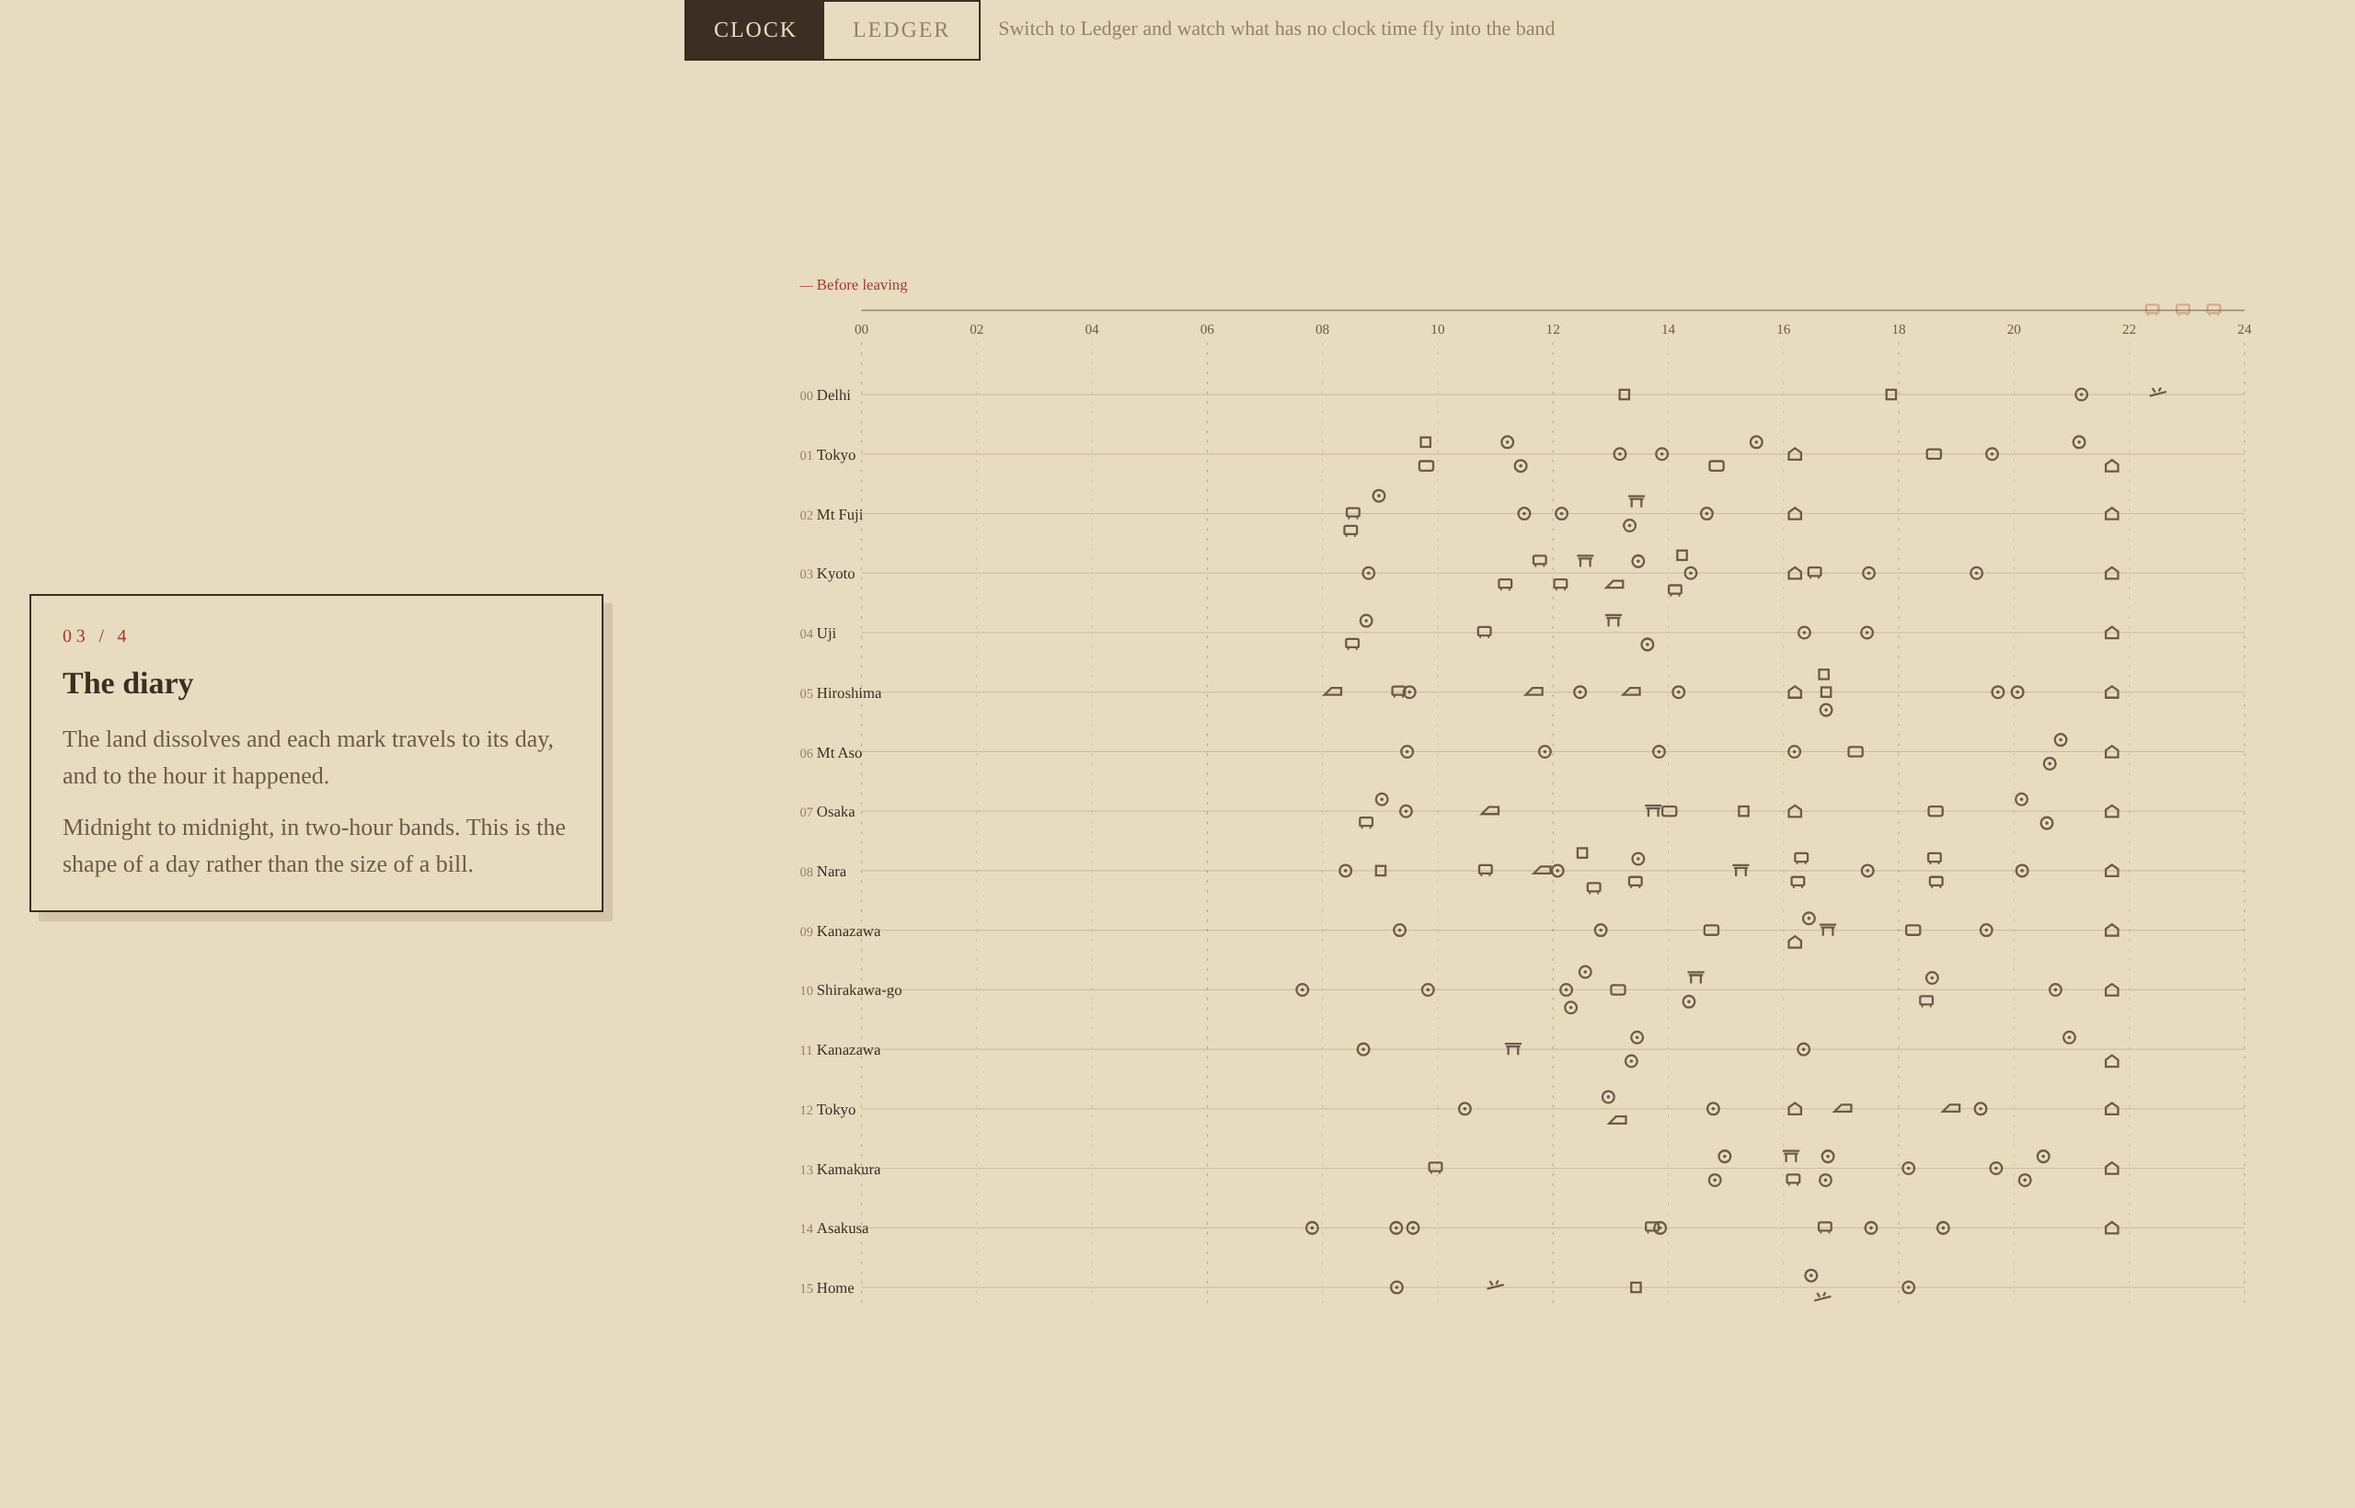
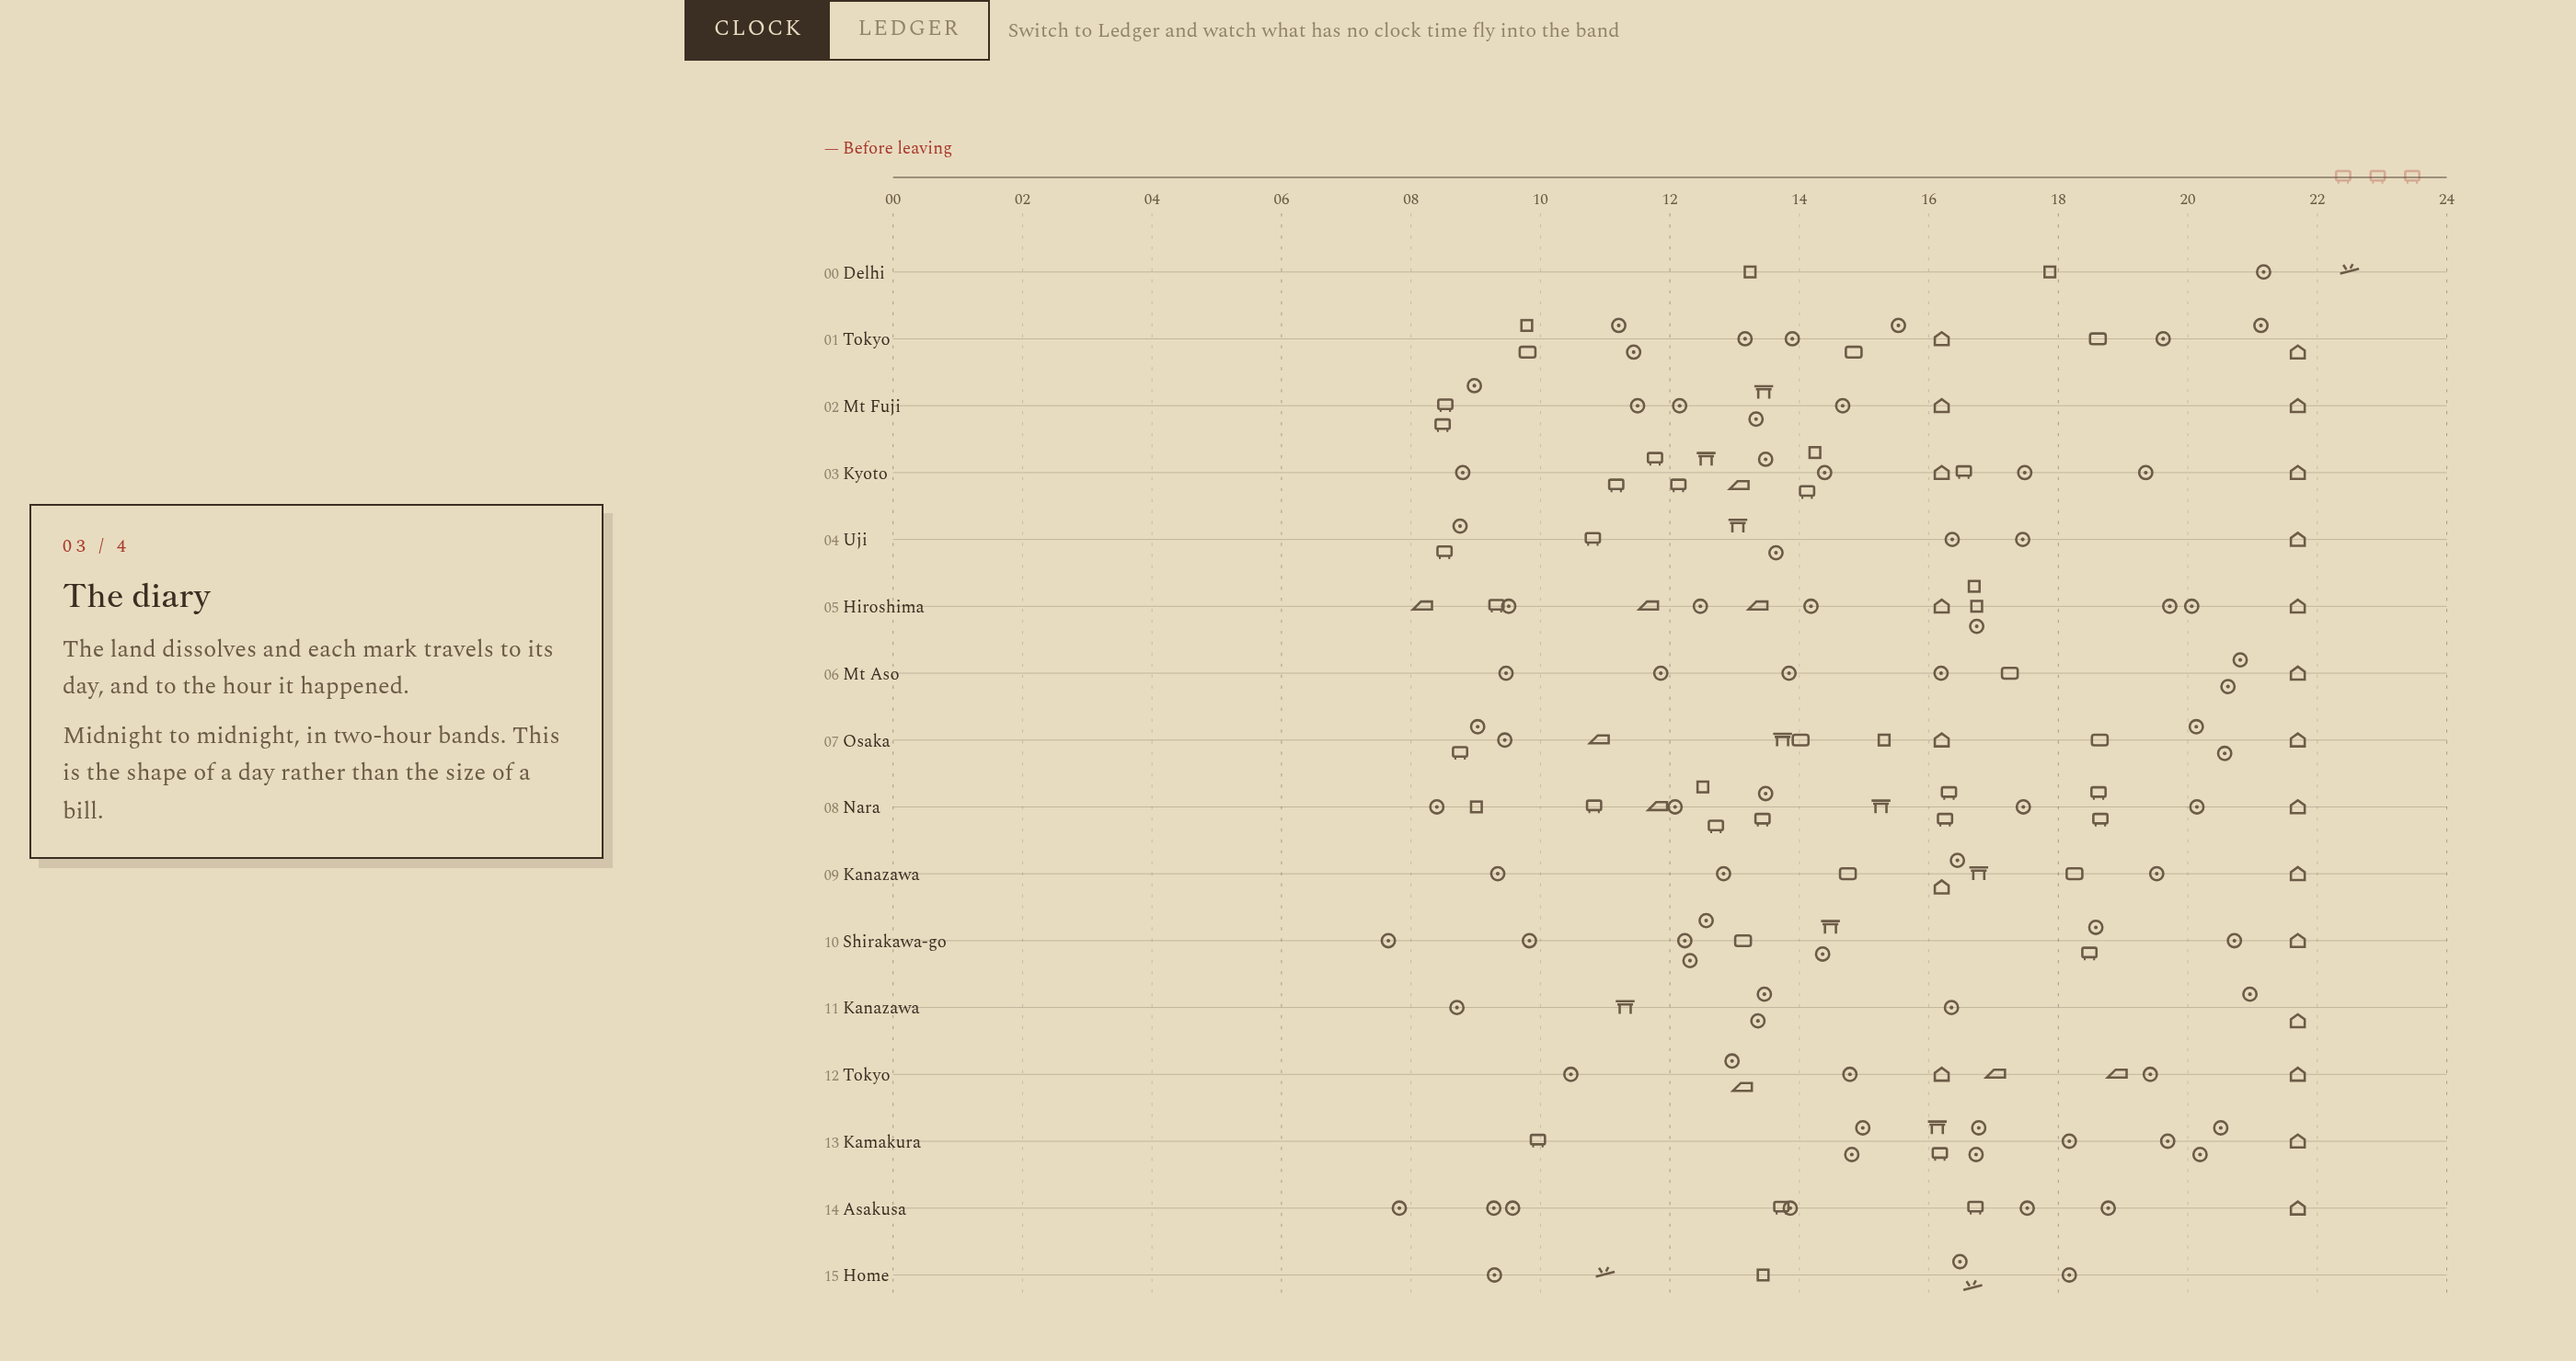
Re-shoot the stills with real type and honest framing
The three stills were all captured with the wrong typography. Chromium in
this container cannot reach fonts.googleapis.com, so every page had been
falling back to Georgia without any error surfacing in the render. Fetching
the fonts over curl and serving them back into the page fixes it.

Two were also badly framed. The clock still was caught mid-scroll with the
stage letterboxed inside its sticky pane, leaving most of the frame empty
paper; the viewport is now sized so the stage fills it. The woodblock still
was cut off mid-way through the day strip; it is now a screenshot of the
sheet element, so the strip, the totals panel and the footnotes are whole.

assets/README.md records both traps, and drops a claim about stripping
Japanese script that stopped being true when that decision was reversed.

Claude-Session: https://claude.ai/code/session_01TMXdwWqCusNt4imA1VtyRV

diff --git a/assets/README.md b/assets/README.md
@@ -1,7 +1,7 @@
 # Posting assets
 
-All regenerated from the live pages, all swept for personal data and Japanese
-script before export. Stills are 2x.
+All regenerated from the live pages, all swept for personal data before export.
+Stills are 2x.
 
 | File | What it shows |
 |---|---|
@@ -9,15 +9,43 @@ script before export. Stills are 2x.
 | `route_map.png` | The route map with the day rail and a detail panel |
 | `numbers_tab.png` | The analytics tab: spend by day, by category, transport mix |
 | `woodblock_full.png` | The full aged survey sheet, whole page |
+| `site_index.png` | The index of the four builds |
 | `interaction.mp4` | 21s. Map dissolving into the clock, then toggling to the ledger and back |
 | `tabs-route-numbers-ledger.mp4` | 25s. Route, day isolation, Numbers, Ledger with filters |
 | `interaction.gif` | The first video at 600px, for places that will not take video |
 
 **For Bluesky use the mp4 files.** Both are about a megabyte.
 
+Only the files a page actually links are copied into `site/assets/`. The rest
+live here and are posted by hand.
+
+## How the stills are captured
+
+Headless Chromium at 2x, driven by Playwright. Two things are easy to get wrong
+and neither one announces itself.
+
+**Fonts.** Chromium here does not trust the agent proxy's certificate
+authority, so `fonts.googleapis.com` fails with `ERR_CERT_AUTHORITY_INVALID`
+and every page quietly falls back to Georgia. `curl` does trust it, so fetch
+the stylesheet and its woff2 files with curl and serve them back into the page
+through `page.route()`. Then read `document.fonts` and confirm the families
+actually loaded. A render that looks plausible is not evidence the type is
+right.
+
+**Framing.** The clock view's stage letterboxes inside its sticky pane unless
+the viewport height is chosen to match the stage's own aspect ratio, which is
+how an earlier still ended up two-thirds empty paper. The woodblock sheet is
+taller than any sensible viewport, so screenshot the `.sheet` element rather
+than the page, or the day strip gets sliced mid-row.
+
 ## Checked before export
 
 - No traveller names, emails, phone numbers, addresses or booking references in
   any rendered page
-- No Japanese script in either English-language page
+- Hotel and landmark names are businesses and are left in deliberately
+- Japanese script is kept on the two pages that were designed with it, the route
+  map and the woodblock sheet
 - Shopping and gifts excluded from the data, and no longer offered as filters
+
+The privacy gate in `privacy_gate.py` cannot read text drawn into a screenshot
+or a video frame. Every file here needs a human to look at it.
